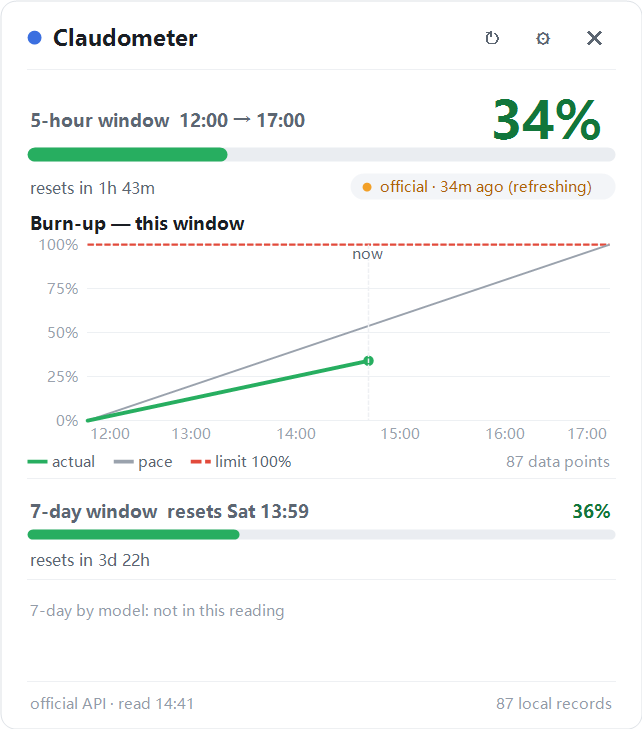
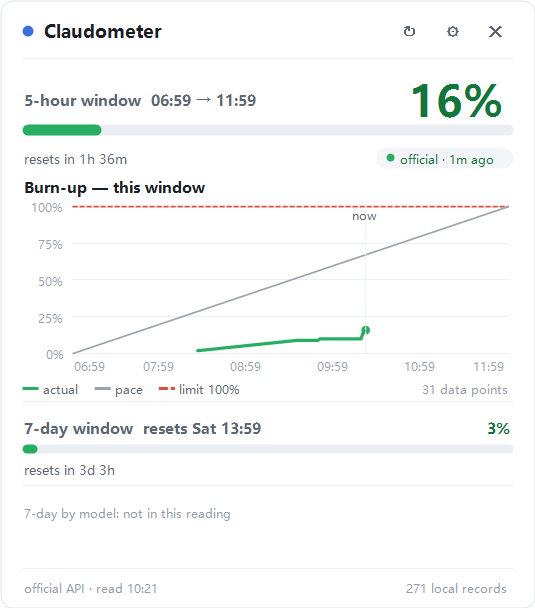
Fix burn-up line collapsing to a single point + straight line to zero
The API's resets_at jitters sub-second around the true boundary, so exact
DateTime equality split one window's readings across many "resets" and the
window filter returned only the latest. Round resets to the whole minute on
store, and match window membership by tolerance instead of equality. Also drop
the synthetic (0,0) anchor so the line is exactly the observed readings, and
label the chart with the window's point count (not total history).

diff --git a/src/History.cs b/src/History.cs
@@ -26,11 +26,21 @@ namespace TokenMeter
         {
             var s = new UsageSample();
             s.Utc = r.FetchedUtc;
-            if (r.FiveHour.HasValue) { s.FivePct = r.FiveHour.Utilization; s.FiveResetUtc = r.FiveHour.ResetUtc; }
-            if (r.SevenDay.HasValue) { s.SevenPct = r.SevenDay.Utilization; s.SevenResetUtc = r.SevenDay.ResetUtc; }
-            if (r.SevenDayOpus.HasValue) { s.OpusPct = r.SevenDayOpus.Utilization; s.OpusResetUtc = r.SevenDayOpus.ResetUtc; }
-            if (r.SevenDaySonnet.HasValue) { s.SonnetPct = r.SevenDaySonnet.Utilization; s.SonnetResetUtc = r.SevenDaySonnet.ResetUtc; }
+            // The API's resets_at carries sub-second jitter around the true boundary (…59:59.95 vs
+            // …00:00.12), so round to the whole minute. That gives every reading in one window the
+            // same canonical reset, which is what window-membership and coalescing key on.
+            if (r.FiveHour.HasValue) { s.FivePct = r.FiveHour.Utilization; s.FiveResetUtc = RoundMinute(r.FiveHour.ResetUtc); }
+            if (r.SevenDay.HasValue) { s.SevenPct = r.SevenDay.Utilization; s.SevenResetUtc = RoundMinute(r.SevenDay.ResetUtc); }
+            if (r.SevenDayOpus.HasValue) { s.OpusPct = r.SevenDayOpus.Utilization; s.OpusResetUtc = RoundMinute(r.SevenDayOpus.ResetUtc); }
+            if (r.SevenDaySonnet.HasValue) { s.SonnetPct = r.SevenDaySonnet.Utilization; s.SonnetResetUtc = RoundMinute(r.SevenDaySonnet.ResetUtc); }
             return s;
+        }
+
+        private static DateTime RoundMinute(DateTime t)
+        {
+            if (t <= DateTime.MinValue) return t;
+            long m = (long)Math.Round(t.Ticks / (double)TimeSpan.TicksPerMinute);
+            return new DateTime(m * TimeSpan.TicksPerMinute, t.Kind);
         }
 
         public void Write(BinaryWriter w)
@@ -104,13 +114,19 @@ namespace TokenMeter
             if (drop > 0) _samples.RemoveRange(0, drop);
         }
 
-        /// <summary>Samples inside the current five-hour window [reset-5h, now], for the burn-up line.</summary>
+        /// <summary>
+        /// Samples inside the current five-hour window [reset-5h, now], for the burn-up line.
+        /// Window membership is by a reset-time tolerance, not exact equality: the API's reset
+        /// jitters by under a second, and adjacent windows are five hours apart, so anything within
+        /// half an hour of the target reset belongs to the same window.
+        /// </summary>
         public List<UsageSample> InFiveHourWindow(DateTime resetUtc, DateTime now)
         {
             DateTime start = resetUtc - TimeSpan.FromHours(5);
             var outp = new List<UsageSample>();
             foreach (UsageSample s in _samples)
-                if (!double.IsNaN(s.FivePct) && s.FiveResetUtc == resetUtc && s.Utc >= start && s.Utc <= now)
+                if (!double.IsNaN(s.FivePct) && s.Utc >= start && s.Utc <= now
+                    && Math.Abs((s.FiveResetUtc - resetUtc).TotalMinutes) < 30)
                     outp.Add(s);
             return outp;
         }

diff --git a/src/ProjectionRenderer.cs b/src/ProjectionRenderer.cs
@@ -86,16 +86,13 @@ namespace TokenMeter
 
             Color actual = ActualColor(s);
 
-            // actual: real API samples, solid, from window start to the latest poll
+            // actual: the real API readings, connected in order. No synthetic points - the line is
+            // exactly what was observed, so a gap when the app wasn't polling is a gap, not a guess.
             var pts = new List<PointF>();
             for (int i = 0; i < s.BurnPct.Count; i++) pts.Add(new PointF(X(s.BurnMin[i]), Y(s.BurnPct[i])));
-            if (pts.Count == 1)
-            {
-                // a single reading: show the point and a baseline from window start
-                pts.Insert(0, new PointF(X(0), Y(0)));
-            }
-            using (var p = new Pen(actual, 2.6f * scale) { LineJoin = LineJoin.Round, StartCap = LineCap.Round, EndCap = LineCap.Round })
-                g.DrawLines(p, pts.ToArray());
+            if (pts.Count >= 2)
+                using (var p = new Pen(actual, 2.6f * scale) { LineJoin = LineJoin.Round, StartCap = LineCap.Round, EndCap = LineCap.Round })
+                    g.DrawLines(p, pts.ToArray());
             PointF tip = pts[pts.Count - 1];
             using (var b = new SolidBrush(actual)) g.FillEllipse(b, tip.X - 3.5f * scale, tip.Y - 3.5f * scale, 7f * scale, 7f * scale);
 

diff --git a/src/PanelForm.cs b/src/PanelForm.cs
@@ -275,7 +275,7 @@ namespace TokenMeter
             x = Swatch(g, x, y, ProjectionRenderer.ActualColor(_snap), L.S("legend.actual"), false);
             x = Swatch(g, x + S(10), y, ProjectionRenderer.PaceColor, L.S("legend.pace"), false);
             Swatch(g, x + S(10), y, ProjectionRenderer.CeilingColor, L.S("legend.ceiling"), true);
-            string samples = L.F("chart.samples", _snap.SampleCount);
+            string samples = L.F("chart.samples", _snap.BurnPct.Count);
             SizeF nm = g.MeasureString(samples, _f7);
             Str(g, samples, _f7, Theme.Faint, Rx - nm.Width, y);
 
